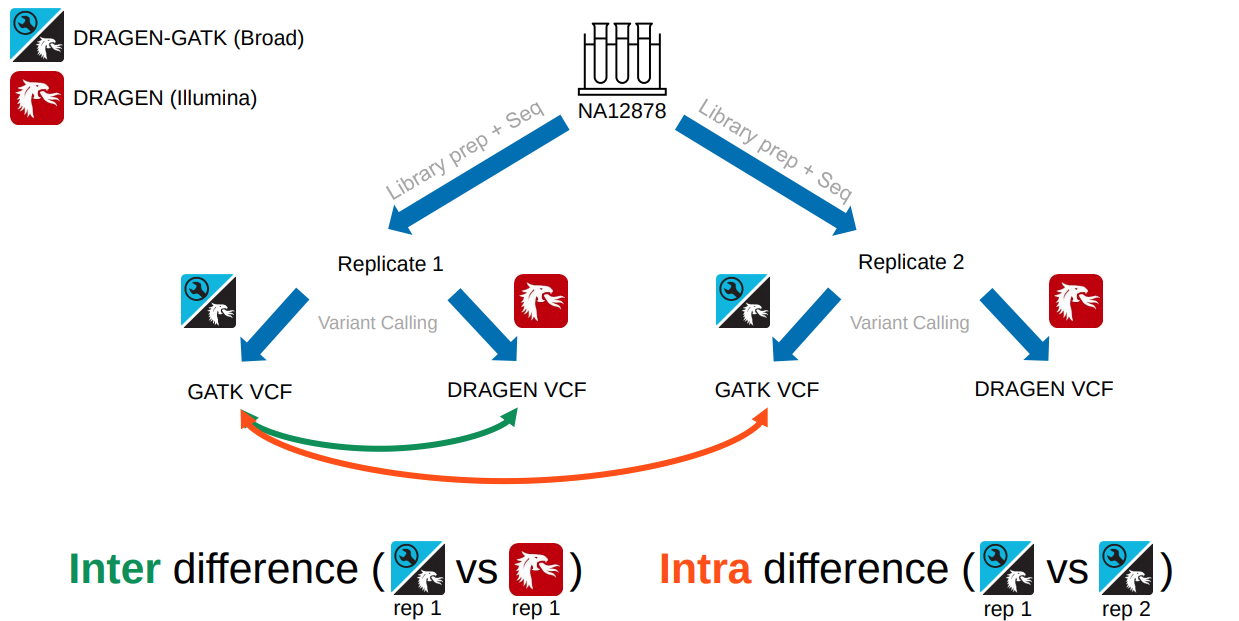
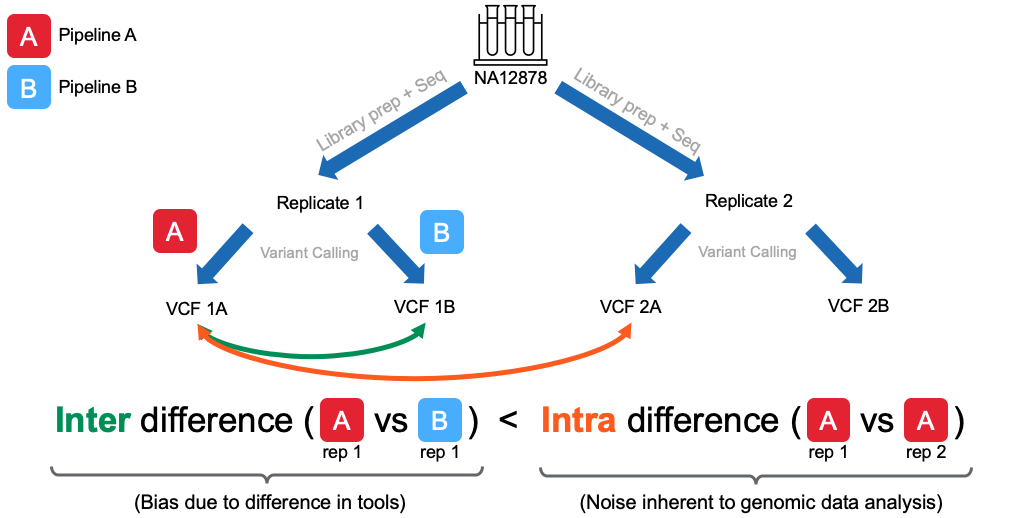
Updated README

Changed region(s): [[0.0312, 0.0, 0.9688, 1.0], [0.0, 0.0, 0.25, 0.2162]]

diff --git a/FunctionalEquivalence/README.md b/FunctionalEquivalence/README.md
@@ -1,21 +1,29 @@
 # Functional Equivalence Workflow
 
+*Michael Gatzen, Geraldine Van der Auwera, Takuto Sato, Christopher Kachulis*
+
+This workflow performs an evaluation of *functional equivalence*. Prompted by scientific need to combine results from multiple sources into larger datasets, functional equivalence is answering the question of how we can ensure that genomic data from different sources, processed with different pipelines, can be used interchangeably without risking batch effects.
+
+**A citable preprint on this topic will be available soon, we appreciate your patience. Please reach out to [Michael Gatzen](https://github.com/michaelgatzen) (email in GitHub profile) any time if you have questions.**
+
 ## Usage
+
+A demonstration of this workflow is available in this workspace in Terra, an open cloud platform for accessing and analyzing data securely and collaboratively in the cloud. 
 
 ### Inputs
 
 Generally, the workflow is designed to operate on a `sample_set` in the Terra data model. If the main data table is called `sample` then the array inputs for this workflow should be provided as `this.samples.[column name]`
 
 Required arguments:
-- `Array[String] sample_id`: Only used for iterating over the the rows, can be arbitrary.
+- `Array[String] sample_id`: Arbitrary name for each sample in the table. Will be used to as a label for ROC plots.
 - `Array[String] dataset`: Dataset name that must be shared for all samples that should be compared to each other. **Must not contain a period (`.`).**
-- `Array[String] confidence_intervals`: Confidence intervals where the analysis should be carried out. Should be the same for each replicate within a dataset.
+- `Array[String] confidence_intervals`: Confidence intervals where the analysis should be carried out. Should be the same for each replicate within a dataset. Supported file types are `.interval_list` and `.bed`.
 - `String tool1_label`: Label the tool1 VCFs.
-- `Array[String] tool1_vcf`: The VCF generated with tool 1.
-- `Array[String] tool1_vcf_index`
+- `Array[String] tool1_vcf`: The VCF generated with tool 1. Also supports `.vcf.gz` files.
+- `Array[String] tool1_vcf_index`: The VCF index (`.tbi`) file for tool 1.
 - `String tool2_label`: Label the tool2 VCFs.
-- `Array[String] tool2_vcf`: The VCF generated with tool 2.
-- `Array[String] tool2_vcf_index`
+- `Array[String] tool2_vcf`: The VCF generated with tool 2. Also supports `.vcf.gz` files.
+- `Array[String] tool2_vcf_index`: The VCF index (`.tbi`) file for tool 2.
 - `Array[String] truth_vcf`: A truth VCF, if available. **If no truth is available for a given row, this field must be set to the string `"null"` and must not be left empty.**
 - `Array[String] truth_vcf_index`: A truth VCF index, if available. **If no truth is available for a given row, this field must be set to the string `"null"` and must not be left empty.**
 - `Array[String]? stratLabels`: Labels for an arbitrary number of intervals for which to produce output statistics and plots.
@@ -68,7 +76,7 @@ An example FE plot (with annotations added for clarity) is shown below:
 
 ![Example FE plot](doc/fe_plot.png)
 
-The left bars represent the intra tool concordance when comparing different replicates called with DRAGEN and the right bars represent the intra tool concordance between samples called with GATK. The middle bar represents the inter tool concordance.
+The left bars represent the intra tool concordance when comparing different replicates called with Tool A and the right bars represent the intra tool concordance between samples called with Tool B. The middle bar represents the inter tool concordance.
 
 The points in the bars refer to the mean Jaccard score among the comparisons with multiple replicates and the error bars represents the standard deviation.
 
@@ -80,7 +88,7 @@ For evaluating performance differences between tools, F1 plots are also created:
 
 ![Example F1 plot](doc/f1_plot.png)
 
-In this plot, the absolute difference in F1 score vs. truth for a given quality threshold is visualized. In the above plot, we can expect a mean intra tool difference between replicates called with GATK of 0.002 when filtering with a quality threshold of 10. That means, if the F1 score hard-filtered with that quality threshold of replicate 1 is, for example, 0.9 then the F1 score of replicate 2 could be, for example, 0.902. This is the background noise that is expected when looking at different replicates of the same individual.
+In this plot, the absolute difference in F1 score vs. truth for a given quality threshold is visualized. In the above plot, we can expect a mean intra tool difference between replicates called with Tool A of 0.002 when filtering with a quality threshold of 10. That means, if the F1 score hard-filtered with that quality threshold of replicate 1 is, for example, 0.9 then the F1 score of replicate 2 could be, for example, 0.902. This is the background noise that is expected when looking at different replicates of the same individual.
 
 The absolute inter tool difference between tools (green line) is very small and well below the intra tool differences.
 
